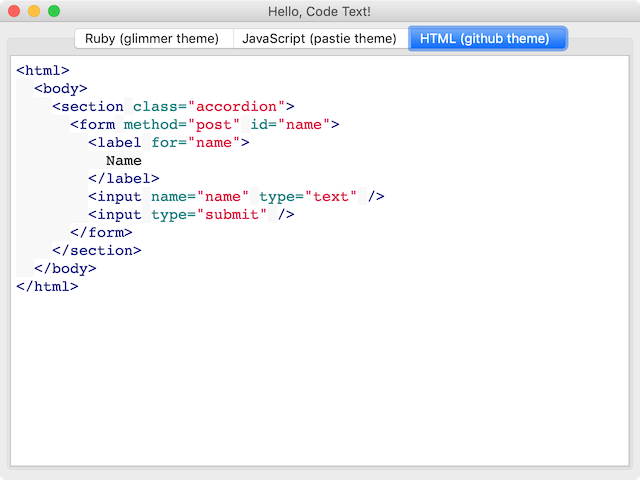
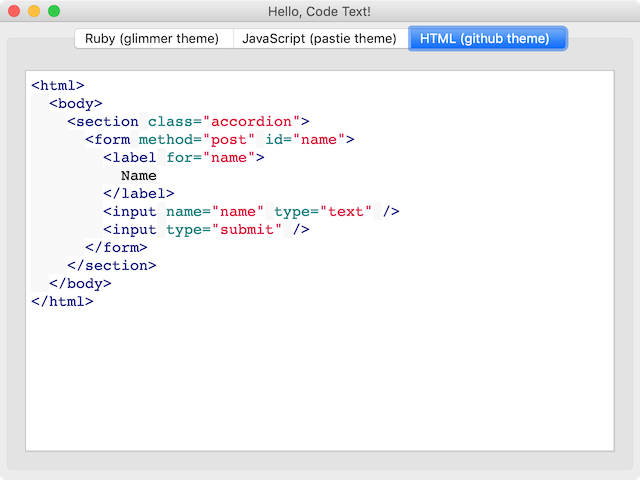
Version 4.18.4.1 changes: - With code_text lines enabled, support setting/data-binding properties on root composite via nesting `root { }` underneath - With code_text lines enabled, support setting/data-binding properties on line numbers styled text widget via nesting `line_numbers { }` underneath -

Changed region(s): [[0.0, 0.0938, 1.0, 0.9688]]

diff --git a/lib/glimmer/swt/custom/code_text.rb b/lib/glimmer/swt/custom/code_text.rb
@@ -34,14 +34,14 @@ module Glimmer
       
         alias lines? lines
         attr_accessor :styled_text_proxy_text, :styled_text_proxy_top_pixel
-        attr_reader :styled_text_proxy, :lines_width
+        attr_reader :styled_text_proxy, :lines_width, :line_numbers_styled_text_proxy
         
         def method_missing(method_name, *args, &block)
           dsl_mode = @dsl_mode || args.last.is_a?(Hash) && args.last[:dsl]
           if dsl_mode
             args.pop if args.last.is_a?(Hash) && args.last[:dsl]
             super(method_name, *args, &block)
-          elsif pd(@styled_text_proxy)&.respond_to?(method_name, *args, &block)
+          elsif @styled_text_proxy&.respond_to?(method_name, *args, &block)
             @styled_text_proxy&.send(method_name, *args, &block)
           else
             super
@@ -60,6 +60,14 @@ module Glimmer
         
         def has_instance_method?(method_name)
           respond_to?(method_name)
+        end
+        
+        def root_block=(block)
+          body_root.content(&block)
+        end
+        
+        def line_numbers_block=(block)
+          @line_numbers_styled_text_proxy.content(&block)
         end
         
         before_body {
@@ -85,7 +93,7 @@ module Glimmer
             composite {
               grid_layout(2, false)
               
-              @line_numbers_text = styled_text(:multi, :border) {
+              @line_numbers_styled_text_proxy = styled_text(swt(swt(swt_style), :h_scroll!, :v_scroll!)) {
                 layout_data(:right, :fill, false, true)
                 text ' '*lines_width.to_i
                 text bind(self, :styled_text_proxy_text, read_only: true) { |text_value|
@@ -128,6 +136,7 @@ module Glimmer
         
         def code_text_widget
           @styled_text_proxy = styled_text(swt_style) {
+#             custom_widget_property_owner # TODO implement to route properties here without declaring method_missing
             layout_data :fill, :fill, true, true if lines
             text bind(self, :styled_text_proxy_text) if lines
             top_pixel bind(self, :styled_text_proxy_top_pixel) if lines

diff --git a/lib/glimmer/swt/layout_proxy.rb b/lib/glimmer/swt/layout_proxy.rb
@@ -72,7 +72,9 @@ module Glimmer
         @swt_layout.marginRight = 0 if @swt_layout.respond_to?(:marginRight)
         @swt_layout.marginBottom = 0 if @swt_layout.respond_to?(:marginBottom)
         @swt_layout.marginLeft = 0 if @swt_layout.respond_to?(:marginLeft)
+        old_layout = @widget_proxy.swt_widget.getLayout
         @widget_proxy.swt_widget.setLayout(@swt_layout)
+        @widget_proxy.swt_widget.layout if old_layout
       end
 
       def has_attribute?(attribute_name, *args)
@@ -83,7 +85,8 @@ module Glimmer
         apply_property_type_converters(attribute_name, args)
         if args.first != @swt_layout.send(attribute_getter(attribute_name))
           @swt_layout.send(attribute_setter(attribute_name), *args)
-          @widget_proxy.swt_widget.getShell.pack
+          @widget_proxy.swt_widget.layout
+          @widget_proxy.swt_widget.getShell.layout
         end
       end
 

diff --git a/samples/hello/hello_code_text.rb b/samples/hello/hello_code_text.rb
@@ -49,7 +49,19 @@ shell {
     tab_item {
       fill_layout
       text 'JavaScript (pastie theme)'
-      code_text(language: 'javascript', theme: 'pastie', lines: {width: 2}) {
+      # No border (SWT styles are passed explicitly)
+      code_text(:multi, :h_scroll, :v_scroll, language: 'javascript', theme: 'pastie', lines: {width: 2}) {
+        # With lines, the custom widget has a root composite, which can be configured separately
+        root {
+          grid_layout(2, false) {
+            margin_width 2
+          }
+          background :white
+        }
+        # With lines, the line numbers widget can be configured separately
+        line_numbers {
+          background :white
+        }
         text <<~CODE
           function greet(greeting) {
             alert(greeting);

diff --git a/samples/elaborate/meta_sample.rb b/samples/elaborate/meta_sample.rb
@@ -267,6 +267,9 @@ class MetaSampleApplication
         @code_text = code_text(lines: {width: 2}) {
           text bind(SampleDirectory, 'selected_sample.code', read_only: true)
           editable bind(SampleDirectory, 'selected_sample.editable')
+          line_numbers {
+            background :white
+          }
         }
         
         weights 4, 11

diff --git a/README.md b/README.md
@@ -1,4 +1,4 @@
-# [<img src="https://raw.githubusercontent.com/AndyObtiva/glimmer/master/images/glimmer-logo-hi-res.png" height=85 />](https://github.com/AndyObtiva/glimmer) Glimmer DSL for SWT 4.18.4.0
+# [<img src="https://raw.githubusercontent.com/AndyObtiva/glimmer/master/images/glimmer-logo-hi-res.png" height=85 />](https://github.com/AndyObtiva/glimmer) Glimmer DSL for SWT 4.18.4.1
 ## JRuby Desktop Development GUI Framework
 [![Gem Version](https://badge.fury.io/rb/glimmer-dsl-swt.svg)](http://badge.fury.io/rb/glimmer-dsl-swt)
 [![Travis CI](https://travis-ci.com/AndyObtiva/glimmer-dsl-swt.svg?branch=master)](https://travis-ci.com/github/AndyObtiva/glimmer-dsl-swt)
@@ -360,6 +360,7 @@ If you see anything that needs to be improved, please do not hesitate to contact
       - [Hello, Button!](#hello-button)
       - [Hello, Link!](#hello-link)
       - [Hello, Dialog!](#hello-dialog)
+      - [Hello, Code Text!](#hello-code-text)
       - [Hello, Canvas!](#hello-canvas)
       - [Hello, Canvas Animation!](#hello-canvas-animation)
       - [Hello, Canvas Transform!](#hello-canvas-transform)
@@ -489,9 +490,7 @@ jgem install glimmer-dsl-swt
 
 Or this command if you want a specific version:
 ```
-jgem install glimmer-dsl-swt -v 4.18.4.0
-
-
+jgem install glimmer-dsl-swt -v 4.18.4.1
 ```
 
 `jgem` is JRuby's version of `gem` command.
@@ -509,8 +508,7 @@ Note: if you're using activerecord or activesupport, keep in mind that Glimmer u
 
 Add the following to `Gemfile`:
 ```
-gem 'glimmer-dsl-swt', '~> 4.18.4.0
-'
+gem 'glimmer-dsl-swt', '~> 4.18.4.1'
 ```
 
 And, then run:
@@ -568,9 +566,7 @@ bin/glimmer samples
 Below are the full usage instructions that come up when running `glimmer` without args.
 
 ```
-Glimmer (JRuby Desktop Development GUI Framework) - JRuby Gem: glimmer-dsl-swt v4.18.4.0
-
-
+Glimmer (JRuby Desktop Development GUI Framework) - JRuby Gem: glimmer-dsl-swt v4.18.4.1
       
 Usage: glimmer [--bundler] [--pd] [--quiet] [--debug] [--log-level=VALUE] [[ENV_VAR=VALUE]...] [[-jruby-option]...] (application.rb or task[task_args]) [[application2.rb]...]
 
@@ -1049,9 +1045,7 @@ Output:
                                                                          
   Css    glimmer-dsl-css    1.1.0     AndyMaleh    Glimmer DSL for CSS
   Opal   glimmer-dsl-opal   0.10.2     AndyMaleh    Glimmer DSL for Opal
-  Swt    glimmer-dsl-swt    4.18.4.0
-
-  AndyMaleh    Glimmer DSL for SWT
+  Swt    glimmer-dsl-swt    4.18.4.1  AndyMaleh    Glimmer DSL for SWT
   Tk     glimmer-dsl-tk     0.0.6     AndyMaleh    Glimmer DSL for Tk
   Xml    glimmer-dsl-xml    1.1.0     AndyMaleh    Glimmer DSL for XML
 ```

diff --git a/TODO.md b/TODO.md
@@ -4,6 +4,9 @@ Here is a list of tasks to do (moved to [CHANGELOG.md](CHANGELOG.md) once done).
 
 ## Next
 
+- Support routing of property setting/data-binding in a custom widget to a nested widget underneath its body root using the custom_widget_property_owner desginator method (called in the body of the widget that owns the properties or else body_root is the one)
+- Document custom widget technique for routing property data binding to a nested widget manually via block properties
+- Provide a way to still route property setting/data-binding to root composite if need be in a custom widget with a nested property owner
 - Auto-Dispose observers relating to self-contained CustomShells (as captured during their construction) with the observe keyword
 - Support spawning Canvas shapes automatically having the size of the stringExtent/textExtent inside a text/string shape (rendering before string/text is rendered) (alternatively, text may be nested within a rectangle to accomplish the same thing)
 - Introduce a tetromino mutex for operations like down and rotate to avoid them contradicting each other
@@ -301,6 +304,7 @@ items <=> binding {
 - Test DB support with Derby DB
 - Support auto-java-import all SWT widgets as an option (and consider making it happen automatically if an SWT widget wasn't loaded successfully)
 - Support SWT CSS styling (org.eclipse.e4.ui.css.core.elementProvider and org.eclipse.e4.ui.css.core.propertyHandler in https://www.vogella.com/tutorials/Eclipse4CSS/article.html#css-support-for-custom-widgets)
+- Support HTML-like CSS styling by translating SWT widgets into HTML equivalents in an inspector and then applying CSS styles with another translater. This makes styling desktop apps appealing to web designers.
 - Make scaffolding generate a README.md that mentions "Built with Glimmer" or "Built for Glimmer" (app vs gem) and includes Glimmer logo
 - Make app scaffolding building a full MVP app not just hello world, with database access too
 - Wrap SWT as a Maven plugin and use jar-dependencies gem to rely on it instead of including it in the project gem

diff --git a/CHANGELOG.md b/CHANGELOG.md
@@ -4,7 +4,10 @@
 
 - Support data-binding of `code_text` with lines enabled.
 - Upgrade the Glimmer Meta-Sample with code_text lines: {width: 2}
-
+- With code_text lines enabled, support setting/data-binding properties on root composite via nesting `root { }` underneath
+- With code_text lines enabled, support setting/data-binding properties on line numbers styled text widget via nesting `line_numbers { }` underneath
+- Update the Hello, Code Text! sample to remove borders and line numbers background in the JavaScript example
+- Fix issue with updating layout upon later reopening layout/layout data via `proxy.content {}` method
 
 ### 4.18.4.0
 
